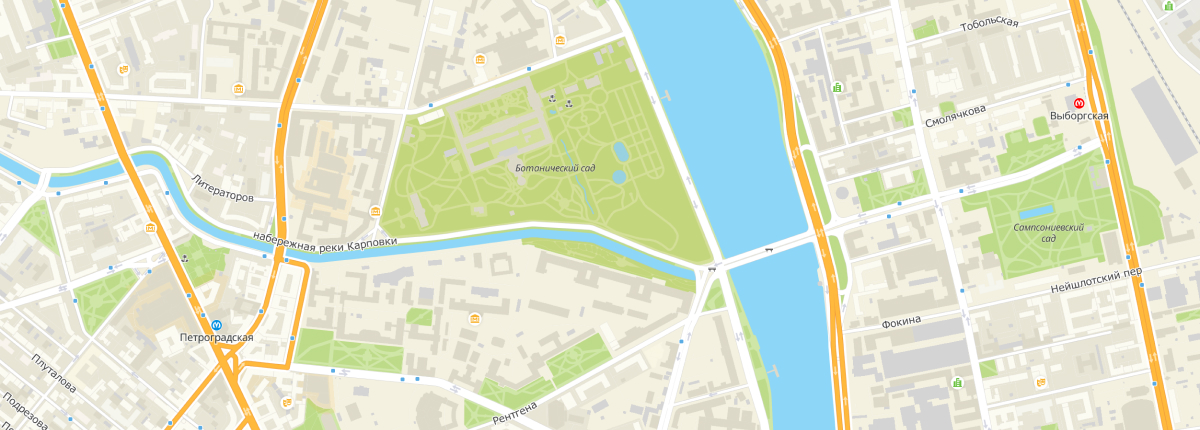
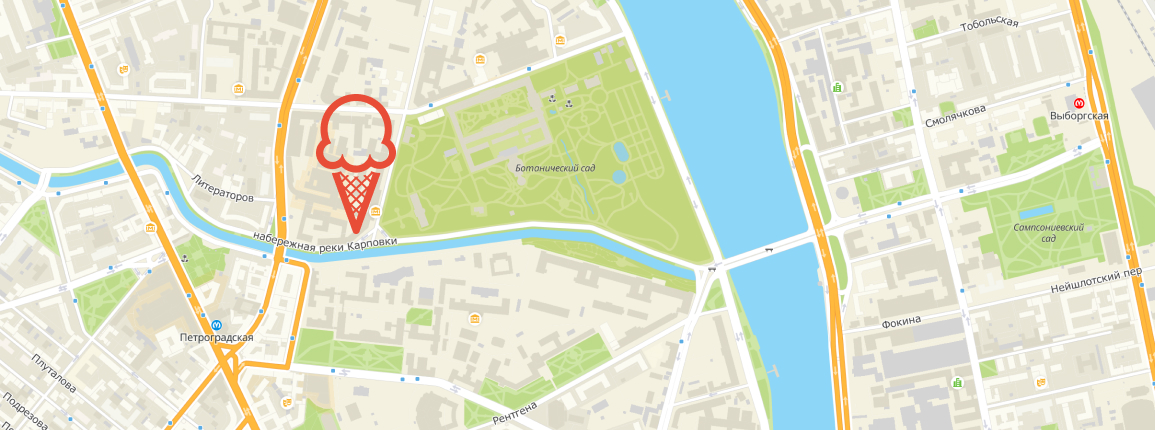
Флекс главной страницы и каталога- правки

diff --git a/index.html b/index.html
@@ -218,16 +218,14 @@
 			<section class="address">
 				<div class="wrapper">
 					<h2 class="hidden">Адрес и телефон для связи</h2>
-					<!-- <img class="address__map" src="img/map.jpg" alt="наб. Реки Карповки, 5 лит П, Санкт-Петербург" width="1200" height="430"> -->
-					<img class="address__icon" src="img/icons/ice-cream_map.svg" width="80" height="140" alt="">
-					<!-- <div class="address__info">
+					<div class="address__info">
 						<p class="address__description">Адрес главного офиса и офлайн-магазина:</p>
 						<address class="adress__adress">наб. Реки Карповки, 5 лит П, Санкт-Петербург</address>
 						<p class="address__description">Для заказов по телефону:</p>
 						<a class="address__phone" href="tel:+78005558628">+7 800 555-86-28</a>
 						<p class="address__description">(с 10 до 20 ежедневно)</p>
 						<button class="button-43"  type="button">Форма обратной связи</button>
-					</div> -->
+					</div>
 				</div>
 			</section>
 			<!-- /Адрес -->
@@ -272,6 +270,7 @@
 					<li class="footer-nav__item"> 
 						<a class="footer-nav__link link" href="#">Наши документы</a>
 					</li>
+
 					<li class="footer-nav__item">
 						<a class="footer-nav__link link" href="#">О производстве</a>
 					</li>

diff --git a/catalog.html b/catalog.html
@@ -103,7 +103,7 @@
 						</label>
 						<label>
 							<input class="filter__radio" type="radio" name="fat" value="до 30%">
-							до 30%"
+							до 30%
 						</label>
 						<label>
 							<input class="filter__radio" type="radio" name="fat" value="выше 30%">

diff --git a/css/style.css b/css/style.css
@@ -370,6 +370,8 @@
 	width: 100%;
 	height: 430px;
 	background-image: url(../img/map.jpg);
+	background-size: cover;
+	background-repeat:no-repeat;
 }
 
 .address__description {
